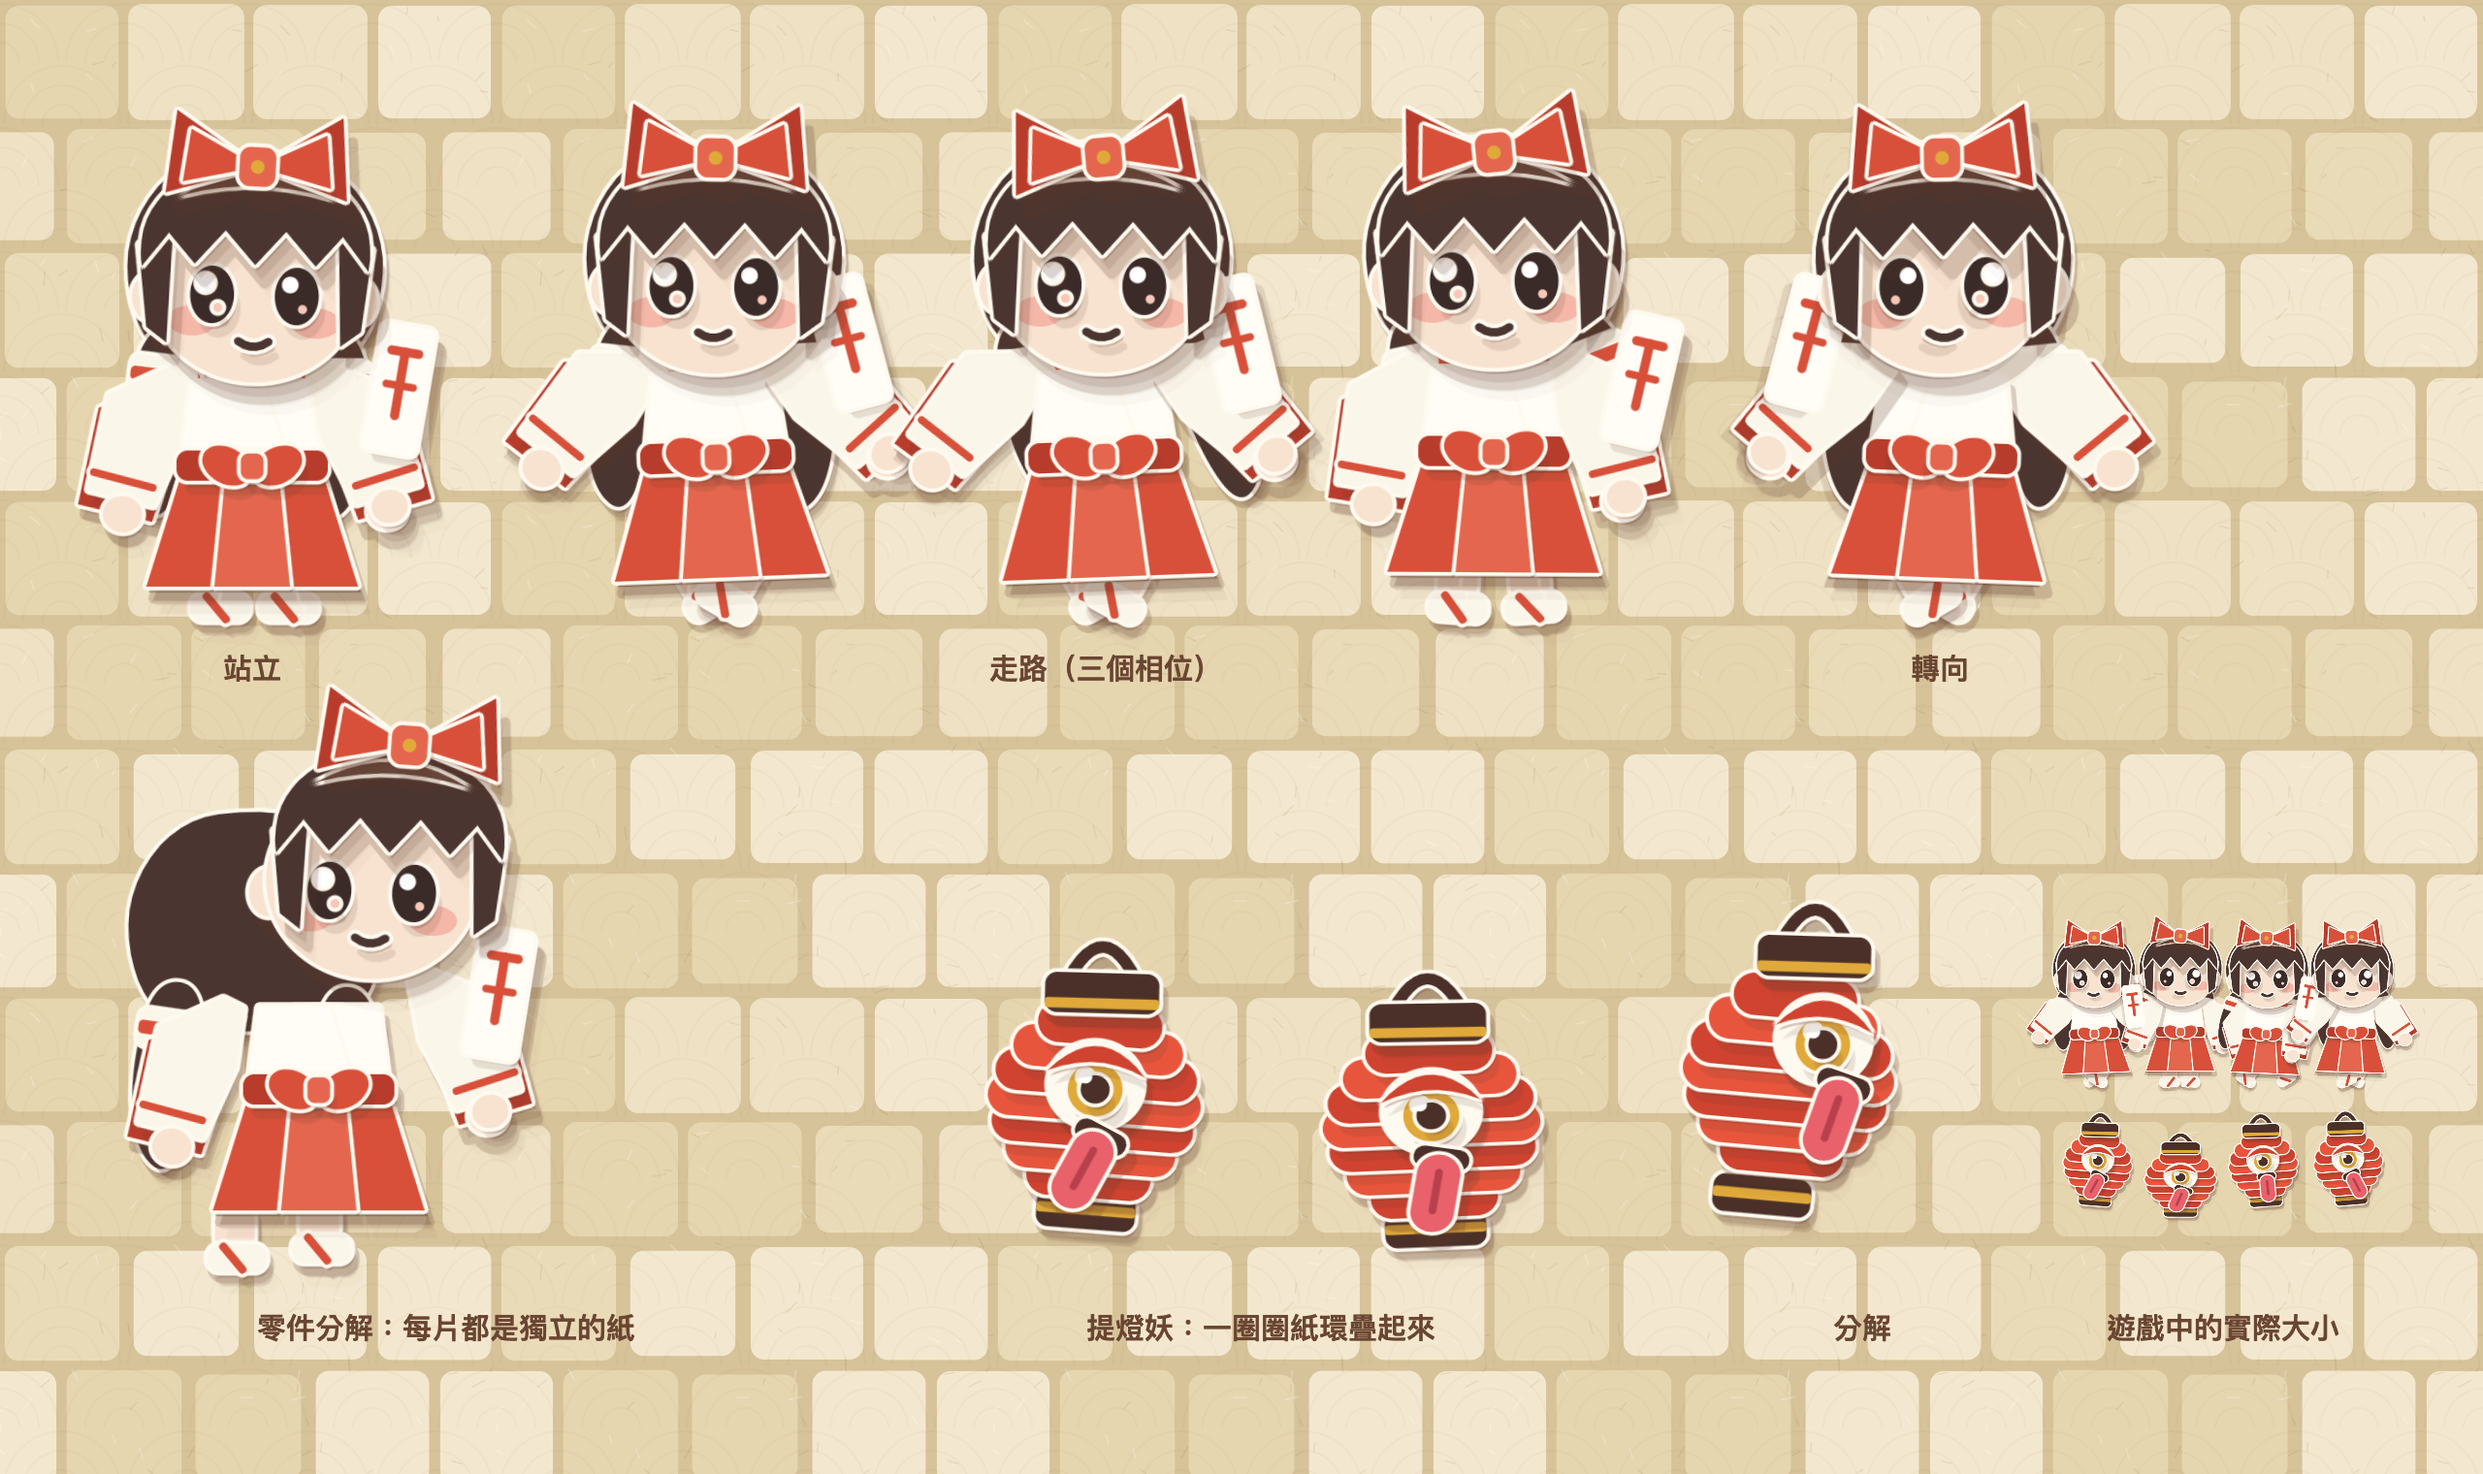
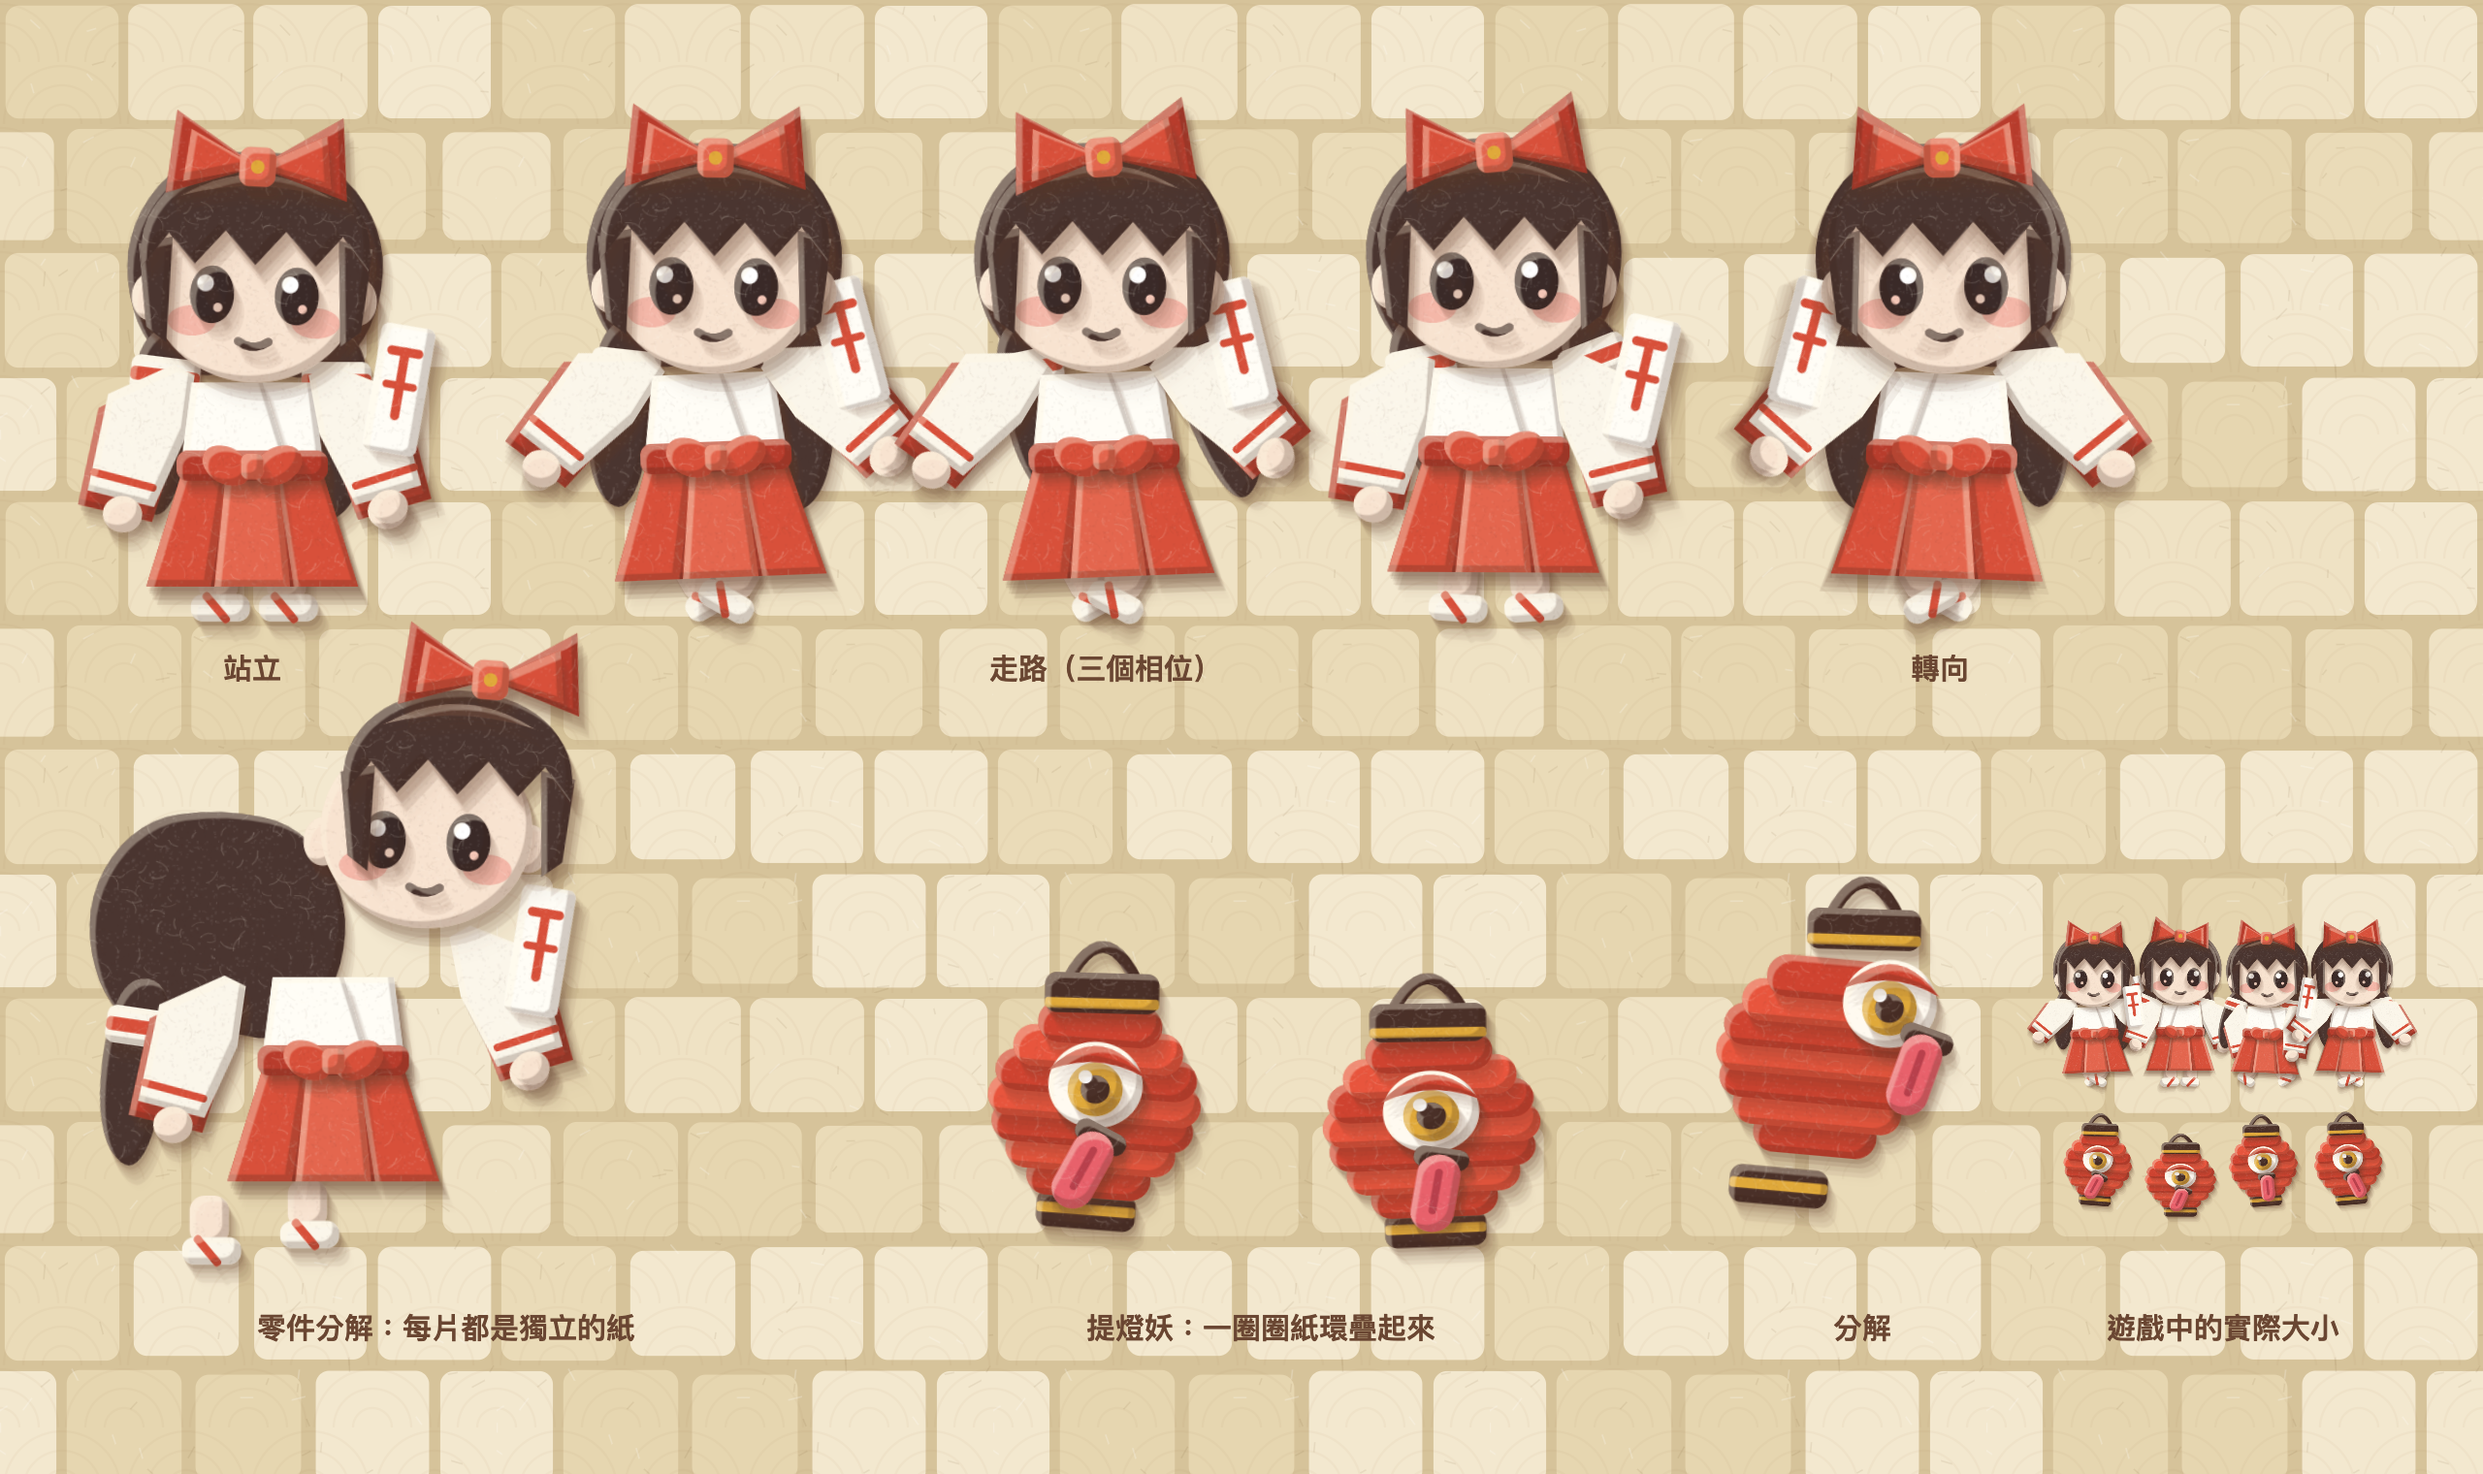
Yokai Night Market: doll parts get card texture instead of a white rim
Each part now has a fine paper grain, a lit upper cut edge and a shaded lower
one, and a soft warm drop shadow built from several offset passes.

Claude-Session: https://claude.ai/code/session_01SWmRBCoZi5zDewCs1B5KjF

diff --git a/yokai-night-market/src/render/kit.ts b/yokai-night-market/src/render/kit.ts
@@ -15,27 +15,71 @@ export const RES = 3;   // sprite supersampling
 
 export interface Sprite { c: HTMLCanvasElement; w: number; h: number; ox: number; oy: number; flash?: HTMLCanvasElement; url?: string }
 
-interface Stack { top: C; out: C; sil: C; res: number; rim: number }
+interface Stack { top: C; out: C; sil: C; tmp: C | null; res: number }
 let stack: Stack | null = null;
+
+// Paper grain shared by every card part: short fibres and a fine tooth, tiled.
+let grain: CanvasPattern | null = null;
+function grainPattern(c: C): CanvasPattern {
+  if (!grain) {
+    const g = layer(160, 160);
+    let seed = 7;
+    const rnd = (): number => { seed = (seed * 16807) % 2147483647; return seed / 2147483647; };
+    for (let i = 0; i < 1400; i++) {
+      g.fillStyle = rnd() < 0.5 ? 'rgba(255,255,255,0.06)' : 'rgba(70,40,20,0.035)';
+      g.fillRect(rnd() * 160, rnd() * 160, 1 + rnd() * 1.5, 1 + rnd() * 1.5);
+    }
+    g.lineCap = 'round';
+    for (let i = 0; i < 140; i++) {
+      const x = rnd() * 160, y = rnd() * 160, a = rnd() * TAU, l = 4 + rnd() * 12;
+      g.beginPath(); g.moveTo(x, y); g.quadraticCurveTo(x + Math.cos(a + 0.6) * l * 0.5, y + Math.sin(a + 0.6) * l * 0.5, x + Math.cos(a) * l, y + Math.sin(a) * l);
+      g.strokeStyle = rnd() < 0.6 ? 'rgba(255,250,235,0.14)' : 'rgba(90,55,30,0.05)'; g.lineWidth = 0.6 + rnd() * 0.8; g.stroke();
+    }
+    grain = c.createPattern(g.canvas, 'repeat')!;
+  }
+  return grain;
+}
+
+// Gives the sheet on `top` the look of thick card: grain inside, a lit upper edge and a shaded
+// lower edge where the cut shows its thickness. Works on the sheet before it is pressed.
+function finish(st: Stack): void {
+  const cv = st.top.canvas, R = st.res, t = st.tmp!;
+  const top = st.top;
+  top.save(); top.setTransform(1, 0, 0, 1, 0, 0);
+  top.globalCompositeOperation = 'source-atop';
+  top.fillStyle = grainPattern(top); top.fillRect(0, 0, cv.width, cv.height);
+  for (const [dx, dy, col, a] of [[-0.9, -0.9, '#3a2014', 0.22], [0.8, 0.8, '#fff6e0', 0.35]] as const) {
+    // the band of the shape left over after removing a shifted copy of itself is one cut edge
+    t.globalCompositeOperation = 'source-over';
+    t.clearRect(0, 0, cv.width, cv.height);
+    t.drawImage(cv, 0, 0);
+    t.globalCompositeOperation = 'source-in';
+    t.fillStyle = col; t.fillRect(0, 0, cv.width, cv.height);
+    t.globalCompositeOperation = 'destination-out';
+    t.drawImage(cv, dx * R, dy * R);
+    top.globalAlpha = a;
+    top.drawImage(t.canvas, 0, 0);
+  }
+  top.restore();
+}
 
 // Presses the sheet being drawn onto the stack, with its shadows, and starts a fresh one.
 function press(st: Stack): void {
-  const cv = st.top.canvas, sil = st.sil;
+  const cv = st.top.canvas, sil = st.sil, R = st.res;
+  if (st.tmp) finish(st);
   sil.globalCompositeOperation = 'source-over';
   sil.clearRect(0, 0, cv.width, cv.height);
   sil.drawImage(cv, 0, 0);
   sil.globalCompositeOperation = 'source-in';
   sil.fillStyle = SHADE; sil.fillRect(0, 0, cv.width, cv.height);
-  const R = st.res;
-  st.out.globalAlpha = 0.13; st.out.drawImage(sil.canvas, 0.9 * R, 1.9 * R);
-  st.out.globalAlpha = 0.3; st.out.drawImage(sil.canvas, 0.35 * R, 0.75 * R);
-  st.out.globalAlpha = 1;
-  if (st.rim > 0) {
-    // the white core of the card shows as a thin rim around every cut piece
-    sil.fillStyle = '#fffaf0'; sil.fillRect(0, 0, cv.width, cv.height);
-    const d = st.rim * R;
-    for (let i = 0; i < 12; i++) st.out.drawImage(sil.canvas, Math.cos((i / 12) * TAU) * d, Math.sin((i / 12) * TAU) * d);
+  if (st.tmp) {
+    // card parts: a soft, warm drop shadow made of a few offset passes
+    for (let i = 1; i <= 4; i++) { st.out.globalAlpha = 0.07; st.out.drawImage(sil.canvas, 0.35 * i * R, 0.6 * i * R); }
+  } else {
+    st.out.globalAlpha = 0.13; st.out.drawImage(sil.canvas, 0.9 * R, 1.9 * R);
+    st.out.globalAlpha = 0.3; st.out.drawImage(sil.canvas, 0.35 * R, 0.75 * R);
   }
+  st.out.globalAlpha = 1;
   st.out.drawImage(cv, 0, 0);
   st.top.save(); st.top.setTransform(1, 0, 0, 1, 0, 0); st.top.clearRect(0, 0, cv.width, cv.height); st.top.restore();
 }
@@ -61,7 +105,7 @@ export function sprite(w: number, h: number, draw: (c: C) => void, pad = 5): Spr
   top.translate(W / 2, H - pad);
   top.lineJoin = 'round'; top.lineCap = 'round';
   const prev = stack;
-  stack = { top, out, sil, res: RES, rim: 0 };
+  stack = { top, out, sil, tmp: null, res: RES };
   draw(top);
   press(stack);
   stack = prev;
@@ -69,7 +113,7 @@ export function sprite(w: number, h: number, draw: (c: C) => void, pad = 5): Spr
 }
 
 // One jointed part of a paper doll: drawn around its pivot (the origin), inside the given box.
-export function piece(x0: number, y0: number, x1: number, y1: number, draw: (c: C) => void, res = RES, rim = 0.5): Sprite {
+export function piece(x0: number, y0: number, x1: number, y1: number, draw: (c: C) => void, res = RES): Sprite {
   const pad = 4, W = x1 - x0 + pad * 2, H = y1 - y0 + pad * 2;
   const pw = Math.ceil(W * res), ph = Math.ceil(H * res);
   const out = layer(pw, ph), top = layer(pw, ph), sil = layer(pw, ph);
@@ -77,7 +121,7 @@ export function piece(x0: number, y0: number, x1: number, y1: number, draw: (c: 
   top.translate(pad - x0, pad - y0);
   top.lineJoin = 'round'; top.lineCap = 'round';
   const prev = stack;
-  stack = { top, out, sil, res, rim };
+  stack = { top, out, sil, tmp: layer(pw, ph), res };
   draw(top);
   press(stack);
   stack = prev;

diff --git a/yokai-night-market/src/render/dollPreview.ts b/yokai-night-market/src/render/dollPreview.ts
@@ -25,9 +25,9 @@ export function dollPreview(canvas: HTMLCanvasElement): void {
     big.miko.draw(c, 1000, y1, S, -1, t, true); label('轉向', 1000, y1 + 30);
 
     const y2 = 660;
-    big.miko.draw(c, 130, y2, S, 1, 0.6, false, 1); label('零件分解：每片都是獨立的紙', 230, y2 + 30);
+    big.miko.draw(c, 110, y2, S, 1, 0.6, false, 1.8); label('零件分解：每片都是獨立的紙', 230, y2 + 30);
     big.chochin.draw(c, 560, y2, S, 1, t, true); big.chochin.draw(c, 740, y2, S, 1, t + 0.3, true); label('提燈妖：一圈圈紙環疊起來', 650, y2 + 30);
-    big.chochin.draw(c, 900, y2, S, 1, 0.3, true, 1); label('分解', 960, y2 + 30);
+    big.chochin.draw(c, 900, y2, S, 1, 0.3, true, 2); label('分解', 960, y2 + 30);
     for (let i = 0; i < 4; i++) big.miko.draw(c, 1080 + i * 44, y2 - 100, 1.25, i % 2 ? -1 : 1, t + i * 0.2, true);
     for (let i = 0; i < 4; i++) big.chochin.draw(c, 1080 + i * 44, y2 - 30, 1.25, 1, t + i * 0.2, true);
     label('遊戲中的實際大小', 1146, y2 + 30);

diff --git a/yokai-night-market/src/render/doll.ts b/yokai-night-market/src/render/doll.ts
@@ -51,9 +51,12 @@ export class Doll {
       const s = b.spr, lift = 0.5 + b.def.z * 0.16;
       const ex = spread * b.def.z * 2.2 * k, ey = -spread * b.def.z * 1.2 * k;
       // the shadow falls in a fixed screen direction, further for parts that sit higher
-      c.setTransform(b.m.a, b.m.b, b.m.c, b.m.d, b.m.e + ex + lift * 0.7 * k, b.m.f + ey + lift * 1.5 * k);
-      c.globalAlpha = 0.22;
-      c.drawImage(b.shade, -s.ox, -s.oy, s.w, s.h);
+      // two passes, near and far, read as a soft shadow rather than a hard offset copy
+      for (const [f, a] of [[0.55, 0.12], [1, 0.08]]) {
+        c.setTransform(b.m.a, b.m.b, b.m.c, b.m.d, b.m.e + ex + lift * 0.7 * k * f, b.m.f + ey + lift * 1.5 * k * f);
+        c.globalAlpha = a;
+        c.drawImage(b.shade, -s.ox, -s.oy, s.w, s.h);
+      }
       c.globalAlpha = 1;
       c.setTransform(b.m.a, b.m.b, b.m.c, b.m.d, b.m.e + ex, b.m.f + ey);
       c.drawImage(s.c, -s.ox, -s.oy, s.w, s.h);
